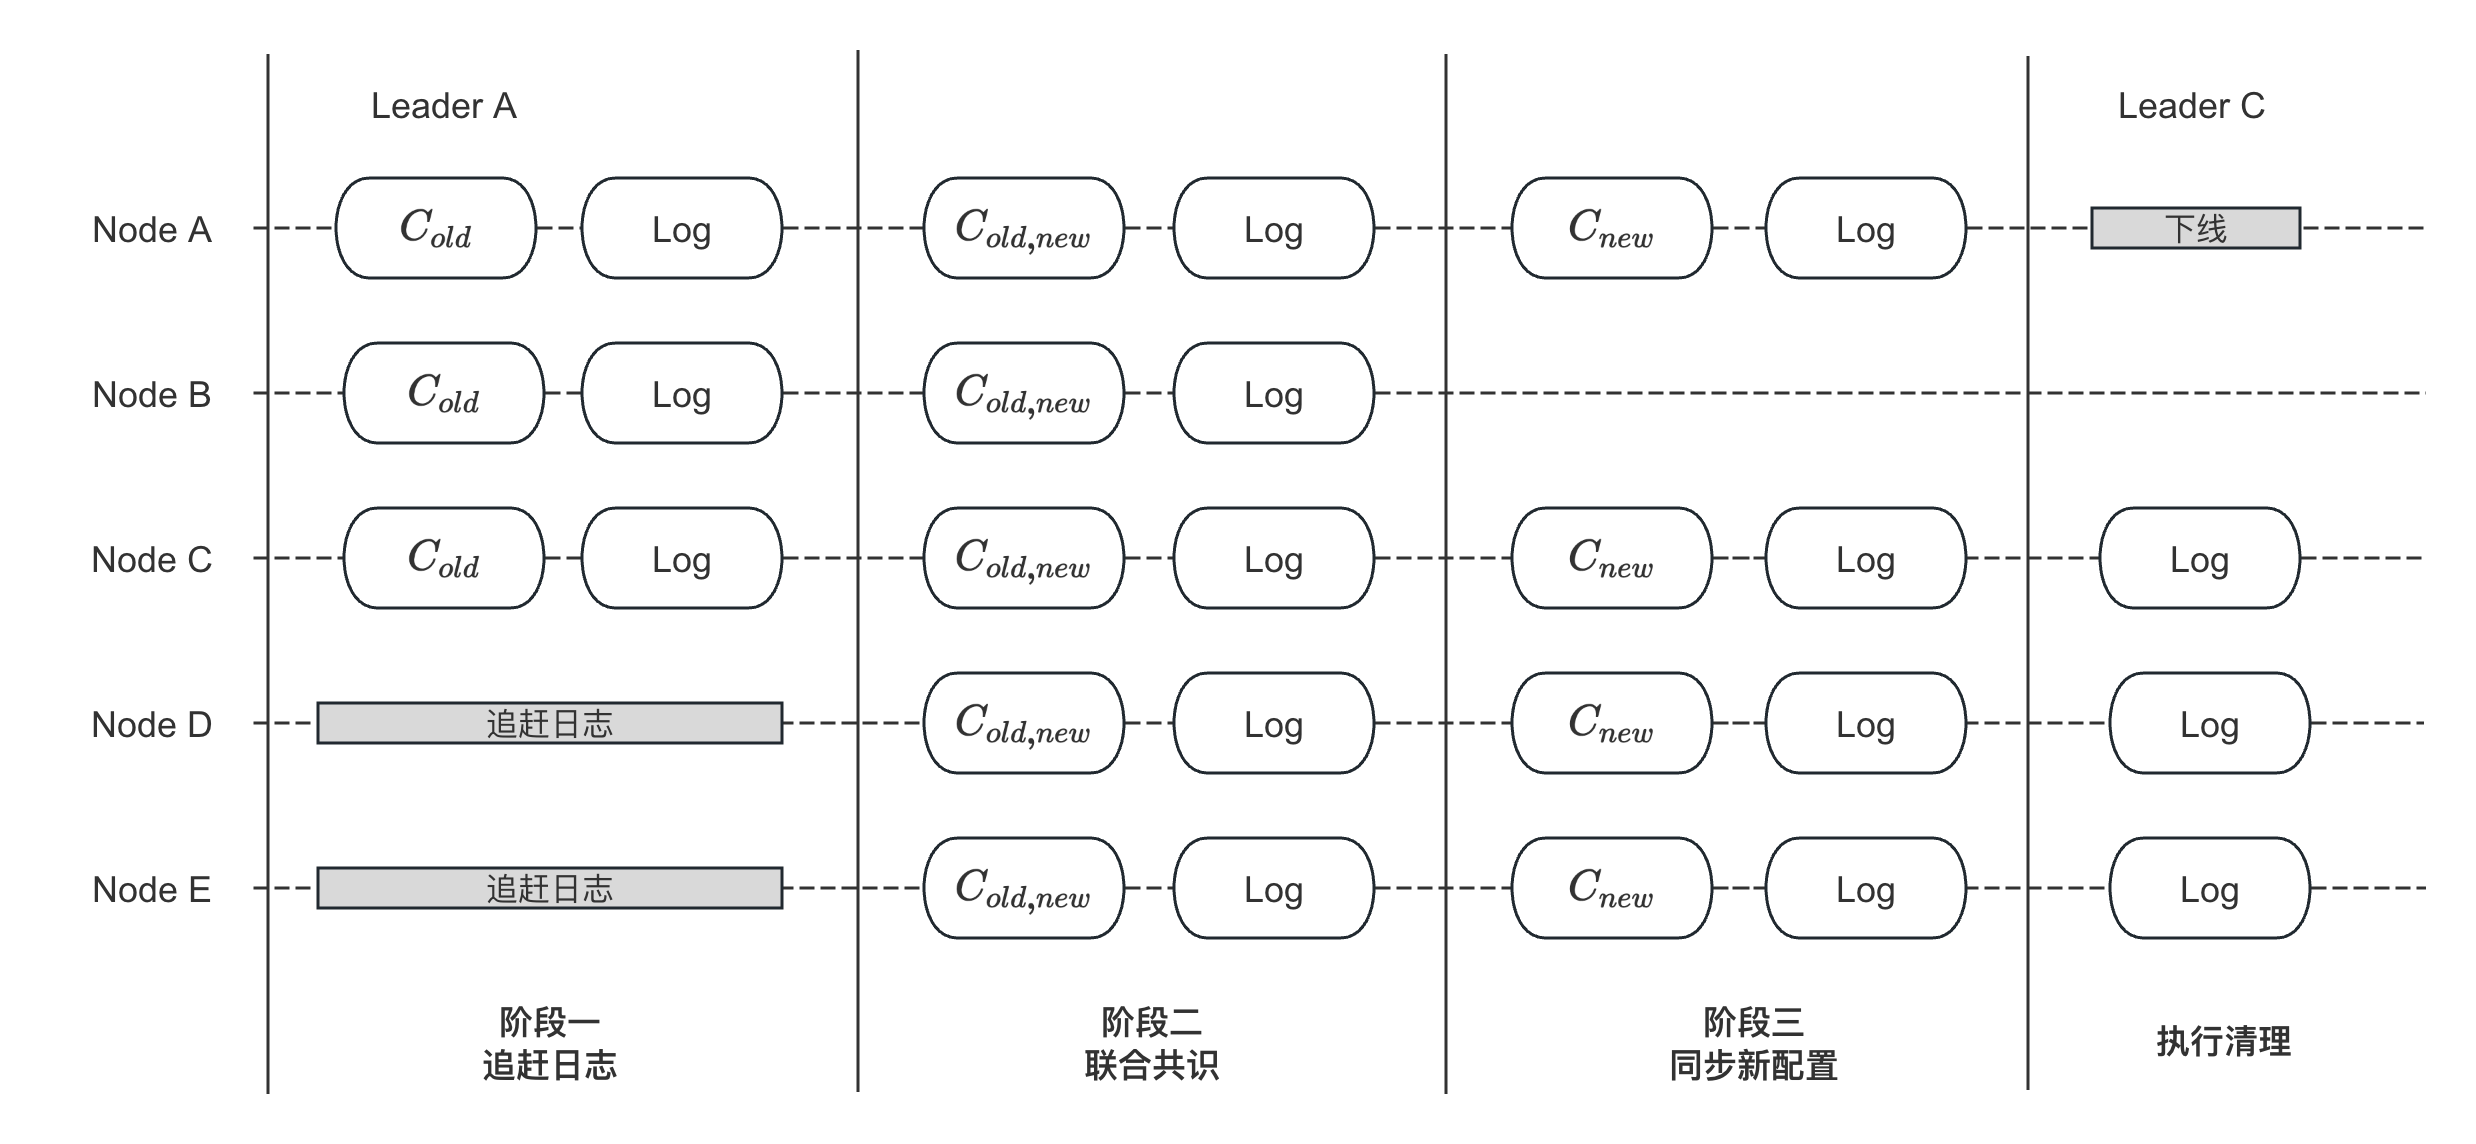
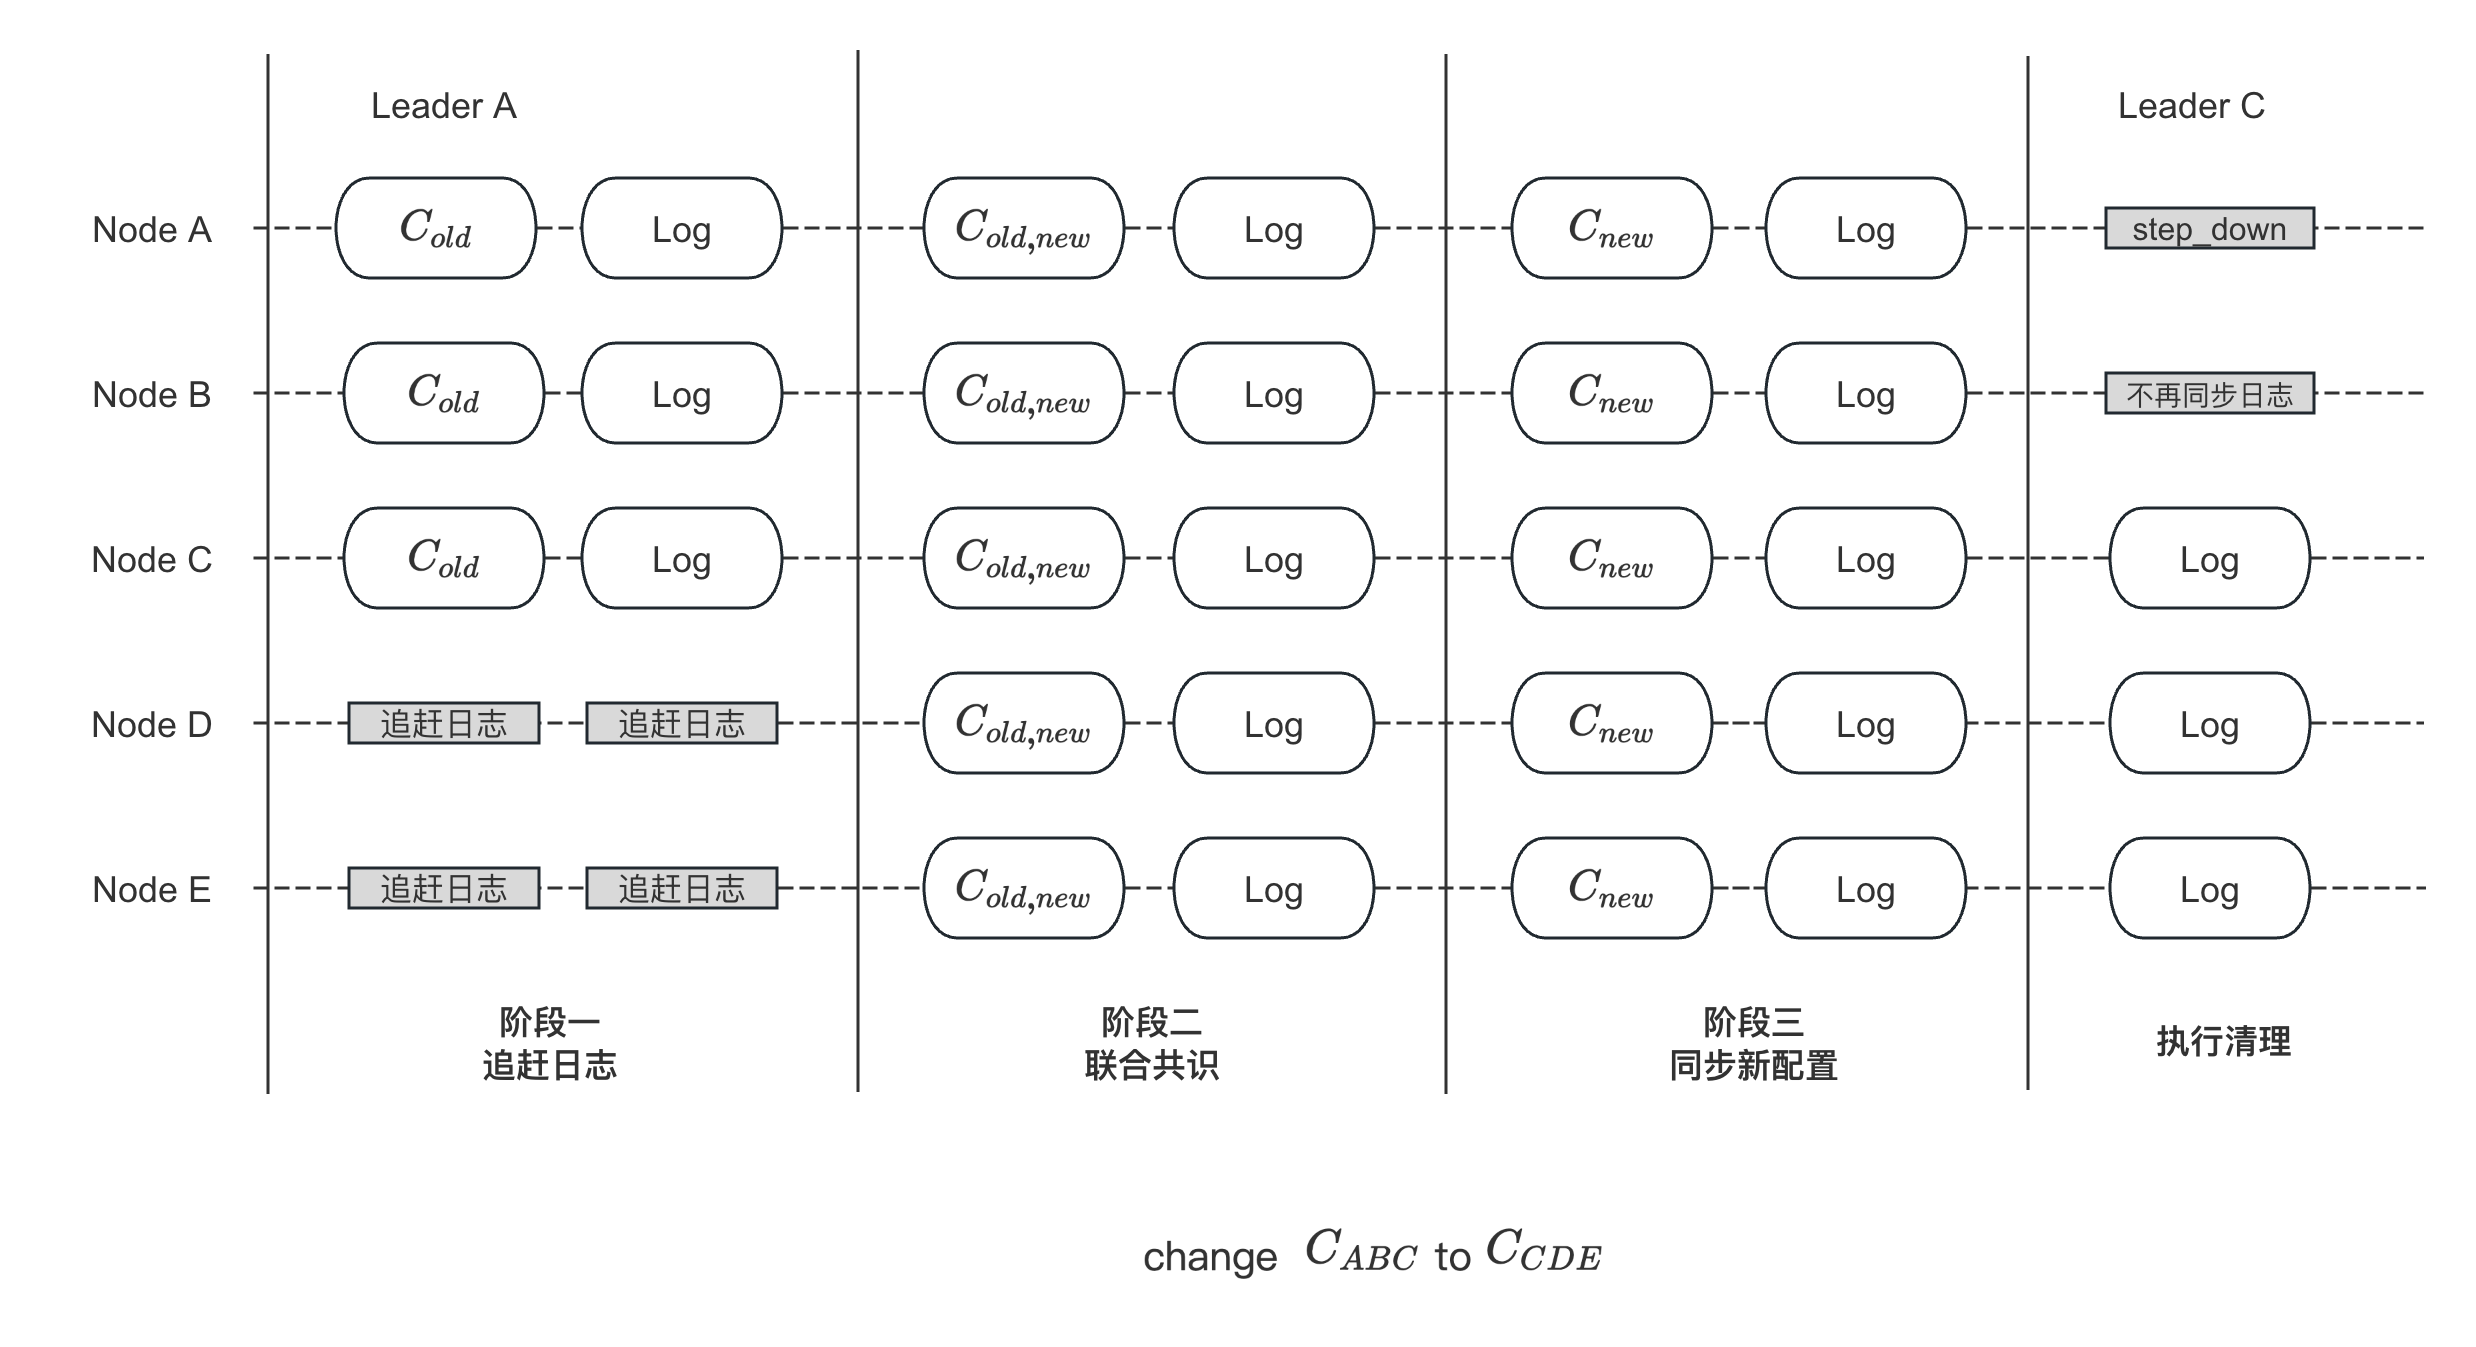
220

diff --git a/ch06/6.1/configuration_change.md b/ch06/6.1/configuration_change.md
@@ -33,7 +33,7 @@
         * 5.3.2 调用该配置的 `Closure`，进入下一阶段
 6. 进行清理工作：
     * 6.1 Leader 移除不在集群中的 `Replicator`，不再向它们发送心跳和日志
-    * 6.2 回调接入传口的 `Closure`
+    * 6.2 回调接口传入的 `Closure`
     * 6.3 若当前 Leader 不在新配置中，则 `step_down` 变为 Follower：
       * 6.3.1 调用用户状态机的 `on_leader_stop`
       * 6.3.2 向拥有最长日志的节点发送 `TimeoutNow` 请求，让其立马进行选举
@@ -53,7 +53,7 @@
     * 如果不是，新 Leader 可能拥有 `C{old,new}`，也可能没有，如果拥有则如以上，如果没有则依旧使用来配置
 * 若进入同步新配置阶段，则新 Leader 必定拥有 `C{old,new}`，此时继续推进变更，直至使用新集群配置
 
-从上面可以看出，一旦 `C{old,new}` 已达到 `Quorum` 被提交，则可以立马应用 `C{new}`，因为即使此时 Leader 此时挂掉，新 Leader 也将继续推进变更从而使用  `C{new}`，等同于处于事务的隐式提交（implicit commit）一样。详见以下[故障恢复](#其他故障恢复)。
+从上面可以看出，一旦 `C{old,new}` 已达到 `Quorum` 被提交，则可以立马应用 `C{new}`，因为即使此时 Leader 此时挂掉，新 Leader 也将继续推进变更从而使用  `C{new}`，等同于处于事务的隐式提交（implicit commit）一样。详见以下<其他：故障恢复>。
 
 <!--
 
@@ -72,6 +72,12 @@ TODO(Wine93,P0)
 
 ![图 6.2  被移节点干扰集群示例](image/6.2.png)
 
+上图来自 Raft 作者的博士论文 `4.2.3  Disruptive servers`，描述的是一个被移除的节点干扰集群，造成集群重新选举的场景：
+
+* 在 `S1,S2,S3,S4` 组成的集群中执行配置变更，调用 `remove_peer` 将节点 `S1` 移除集群
+*
+
+在[<3.2 选举优化>](/ch03/3.2/optimization.md)中提到过，这种场景 `PreVote` 无法阻止，但是可以利用 `Check Quorum` 解决。但是其实在目前 braft 的实现中，这种场景是不会出现的，因为 Leader 是将新配置（即 `C{new}`）复制到新集群的大多数集群后，才开始移除不在新集群中的 `Replicator`（停止广播心跳），而不是在将新配置未达到 `Quorum` 前停止心跳。所以对于节点 `S1` 来说，
 
 相关接口
 ---
